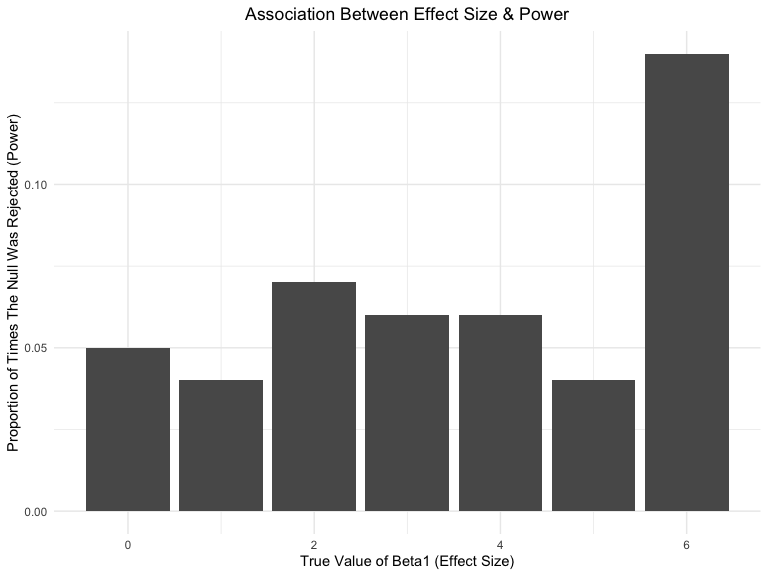
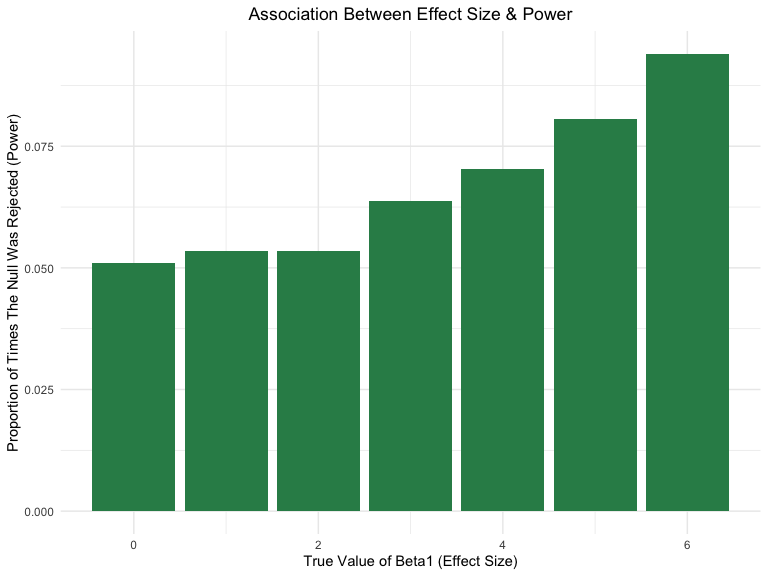
committing after changing problem 3 plot #1 color to sea green

diff --git a/p8105_hw5_at3346.md b/p8105_hw5_at3346.md
@@ -337,7 +337,7 @@ sim_results =
 sim_results_power = 
   tibble(beta1_values = c(0, 1, 2, 3, 4, 5, 6)) %>% 
   mutate(
-    output_lists = map(.x = beta1_values, ~rerun(100, sim_regression(beta1 = .x))),
+    output_lists = map(.x = beta1_values, ~rerun(10000, sim_regression(beta1 = .x))),
     estimate_dfs = map(output_lists, bind_rows)) %>% 
   select(-output_lists) %>% 
   unnest(estimate_dfs) %>% 
@@ -352,7 +352,7 @@ sim_results_all =
     p_sum = sum(p.value < 0.05),
     p_total = p_sum/n()) %>% 
   ggplot(aes(x = beta1_values, y = p_total)) + 
-  geom_bar(stat = "identity") +
+  geom_bar(stat = "identity", fill = "sea green") +
   labs(
     title = "Association Between Effect Size & Power",
     x = "True Value of Beta1 (Effect Size)",
